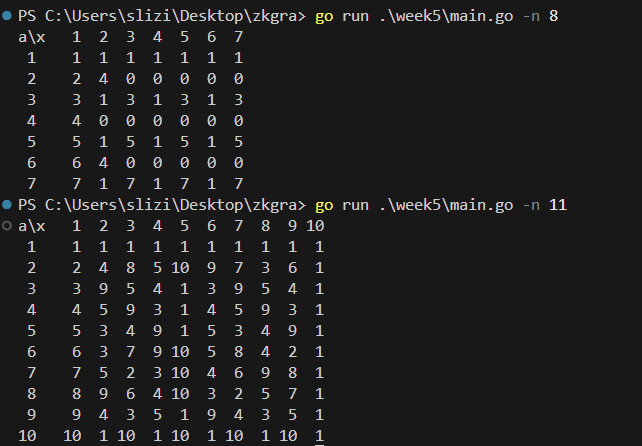
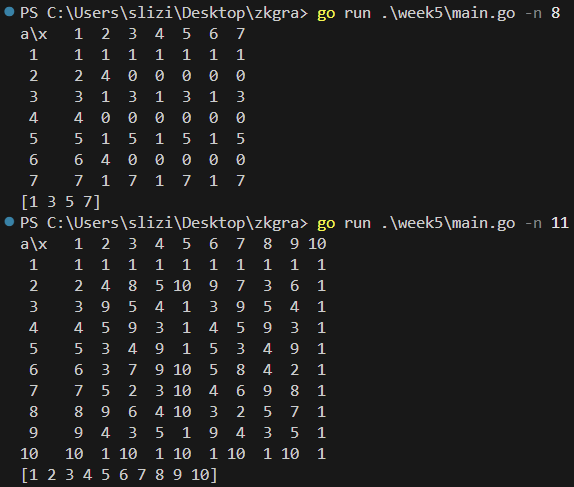
fixes

diff --git a/week5/main.go b/week5/main.go
@@ -4,24 +4,45 @@ import (
 	"flag"
 	"fmt"
 	"math"
+	"sort"
 )
+
+func gcd(a, b int) int {
+	for b != 0 {
+		a, b = b, a%b
+	}
+	return a
+}
 
 // Function to calculate (a^x) % n
 func modExp(a, x, n int) int {
 	return int(math.Pow(float64(a), float64(x))) % n
 }
 
-func generateTable(n int) [][]int {
+func generateTable(n int) ([][]int, []int) {
 	// The table will have n-1 rows and n-1 columns
 	table := make([][]int, n-1)
+	uniqueValues := make(map[int]struct{})
+
 	for a := 1; a < n; a++ {
 		table[a-1] = make([]int, n-1)
 		for x := 1; x < n; x++ {
-			table[a-1][x-1] = modExp(a, x, n)
+			value := modExp(a, x, n)
+			table[a-1][x-1] = value
+			if gcd(value, n) == 1 {
+				uniqueValues[value] = struct{}{} // Store unique coprime value
+			}
 		}
 	}
 
-	return table
+	// Extract and sort unique coprime values
+	var sortedUniqueValues []int
+	for value := range uniqueValues {
+		sortedUniqueValues = append(sortedUniqueValues, value)
+	}
+	sort.Ints(sortedUniqueValues)
+
+	return table, sortedUniqueValues
 }
 
 func printTable(n int, table [][]int) {
@@ -73,9 +94,10 @@ func main() {
 	y := flag.Int("y", 0, "y")
 	flag.Parse()
 
-	table := generateTable(*n)
+	table, unique := generateTable(*n)
 	if !*s {
 		printTable(*n, table)
+		fmt.Printf("%v", unique)
 	}
 
 	if *a > 0 && *y > 0 {

diff --git a/week5/report05.md b/week5/report05.md
@@ -4,32 +4,37 @@ chosen functions:
 The secret keys for the transmitter and receiver: 6 and 3. 
 
 ```
-A = 6, B = 3
-2^x(mod 4)
-a = 2^6 (mod 4) = 0  
-b = 2^3 (mod 4) = 0
-b^A (mod 4) = 0^6 (mod 4) = 0
-a^B (mod 4) = 0^3 (mod 4) = 0
-The secret key will be 0    
+private key A = 6, private key B = 3
+both parties agree on large coprimes p,g
 
-78^x(mod 33).
-a = 78 ^ 6 (mod 33) = 12
-b = 78 ^ 3 (mod 33) = 12
-b^A (mod 33) = 12^6 (mod 33) = 12 
-a^B (mod 33) = 12^3 (mod 33) = 12
-The secret key will be 12
+2^x (mod 4)
+g = 2  (generator)
+p = 4  (modulator)
+
+a = g^A (mod p) = 2^6 (mod 4) = 0  
+b = g^B (mod p) = 2^3 (mod 4) = 0
+public key a = 0 public key b = 0
+
+
+s = b^A (mod p) = 0^6 (mod 4) = 0
+s = a^B (mod p) = 0^3 (mod 4) = 0
+shared secret is 0    
+
+78^x (mod 33)
+g = 78 (generator)
+p = 4  (modulator)
+
+a = g^A (mod p) = 78^6 (mod 33) = 12
+b = g^B (mod p) = 78^3 (mod 33) = 12
+
+s = b^A (mod p) = 12^6 (mod 33) = 12 
+s = a^B (mod p) = 12^3 (mod 33) = 12
+shared secret is 12
 ```
 
 2. Answer the question: is it possible to use the function 2^-1(mod 6) as a common functions and justify your answer.
 
-No it is not, 2 and 6 are not coprime they share common prime factor 2, and their modular inverse does not exist.
-```
-A = 6, B = 3
-2^x mod 6
-a = 2^6 mod 6 = 4
-b = 2^3 mod 6 = 2
-The secret key cannot be calculated
-```
+No it is not, 2 and 6 are not coprime they share common prime factor 2, and thus their modular inverse surely does not exist, and we cannot rely on using them.
 
 ## Exercise 2,3
 Find prime roots modulo for the function y= a^x mod n:
@@ -48,7 +53,7 @@ a=6,y=6
 ```
 Indicate which of these values of a,x are suitable for use in coding algorithms.
 
-For excercise 2,3 I created a simple program, that visualizes the mappings table, and determines the value of x to given corresponding to the combinations. It is as simple as calculating a function for given values of x and a from 1 to n-1. As for the second part it is best to find a row of a given a and loop through values of y to find x.
+For excercise 2,3 I created a simple program, that visualizes the mappings table, and determines the value of x to given corresponding to the combinations. It is as simple as calculating a function for given values of x and a from 1 to n-1 during the creation of table unique values that are coprime with n are stored. As for the second part it is best to find a row of a given a and loop through values of y to find x.
 
 ![](../assets/5-1.png)
 
@@ -79,19 +84,20 @@ since they don't share prime numbers their greatest common denominator is 1
 2. extended euclidean algorithm 
 
 ```
-34 mod 27 
-a mod m 
-34 mod 27 = 7
+34 (mod 27) 
+a (mod m) 
+34 (mod 27) = 7
 a = 7
 m = 27
 
-ab = 1 mod m
-7*b = 1 mod 27 
+a*b = 1 (mod m)
+7*b = 1 (mod 27) 
+
 b = 1..27-1
-1 -> 7 mod 27
-2 -> 14 mod 27
-3 -> 21 mod 27
-4 -> 28 mod 27 = 1
+1 -> 7  (mod 27) = 7
+2 -> 14 (mod 27) = 14
+3 -> 21 (mod 27) = 21
+4 -> 28 (mod 27) = 1
 ...
 ```
 
